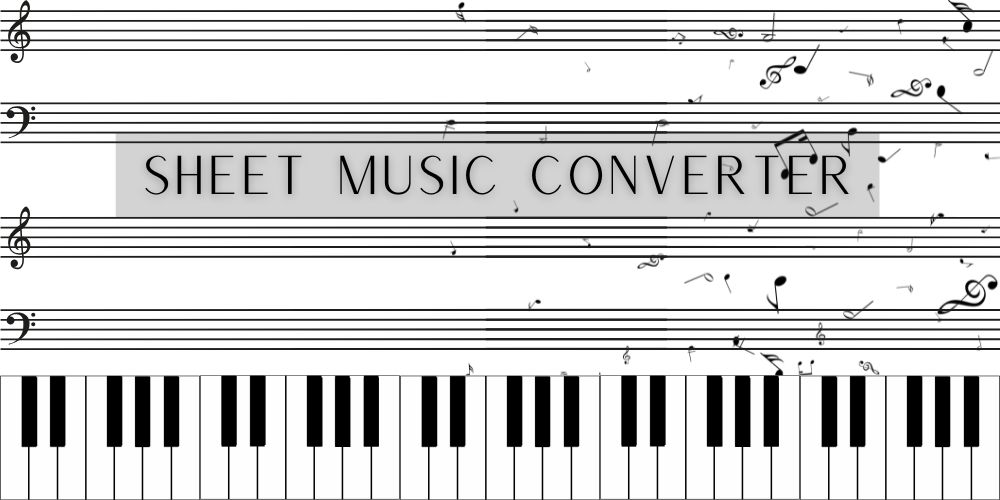
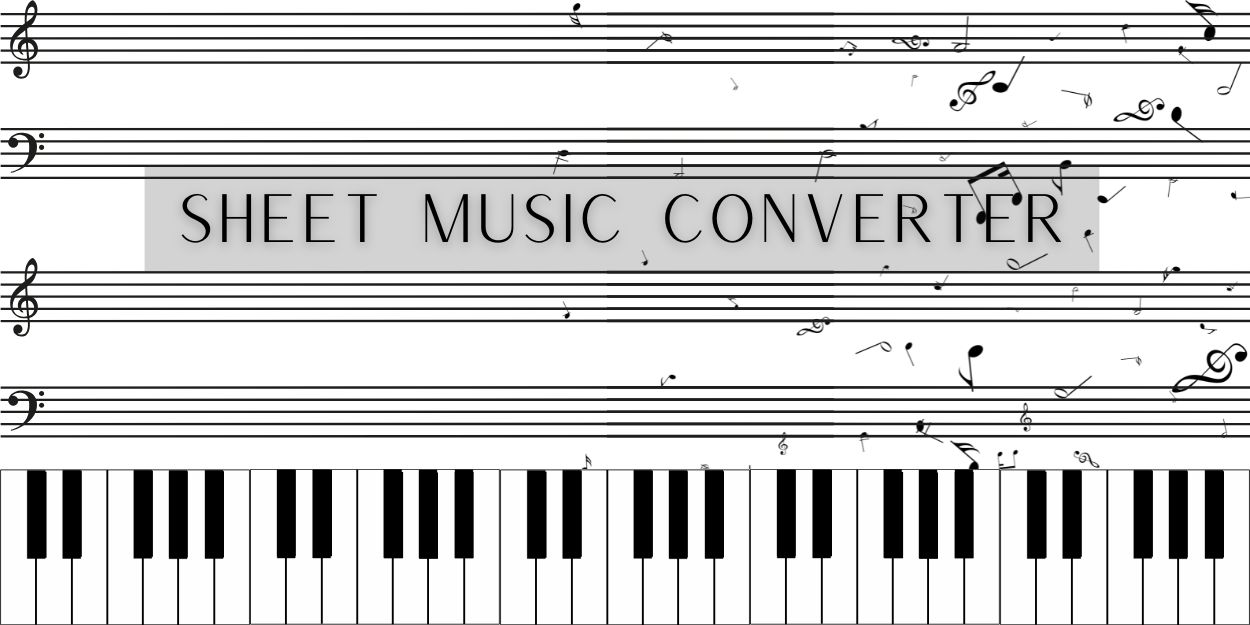
Added file reader

diff --git a/Script/PrintingPage.js b/Script/PrintingPage.js
@@ -1,0 +1,29 @@
+let button = document.getElementById("showFile");
+let title = "";
+let composer = "";
+
+button.addEventListener('click', function(){
+    console.log(sessionStorage.getItem("file"));
+    getData();
+    parser = new DOMParser();
+    xmlDoc = parser.parseFromString(sessionStorage.getItem("file"), "text/xml");
+
+    document.getElementById("output").innerHTML =
+    xmlDoc.getElementsByTagName("sign")[0].childNodes[0].nodeValue;
+})
+
+function getData() {
+    parser = new DOMParser();
+    xmlDoc = parser.parseFromString(sessionStorage.getItem("file"), "text/xml");
+    let notes = [];
+    for(let i = 0; i < 10; i++) {
+        if(xmlDoc.getElementById("credit-type")[i].childNodes[0].nodeValue === "title") {
+            title = xmlDoc.getElementById("credit-words");
+            break;
+        }
+    }
+    console.log(title);
+    document.getElementById("output").innerHTML =
+    xmlDoc.getElementsByTagName("sign")[0].childNodes[0].nodeValue;
+
+}

diff --git a/Script/OpeningPage.js b/Script/OpeningPage.js
@@ -14,19 +14,20 @@ addFileButton.addEventListener('click', function() {
   file.click();
 })
 file.addEventListener('change', (event) => {
-    const file = event.target.files[0];
+    file = event.target.files[0];
     const reader = new FileReader();
   
     reader.onload = (e) => {
       const fileContent = e.target.result;
       // Process fileContent here
+      sessionStorage.setItem("file", fileContent);
       console.log(fileContent);
     };
   
     reader.onerror = (e) => {
       console.error('Error reading file:', e);
     };
-  
+    
     reader.readAsText(file); // or readAsArrayBuffer, readAsDataURL
   });
 
@@ -36,3 +37,7 @@ function readXML(file) {
     reader.readAsDataURL(file);
     console.log(reader.readAsDataURL(file));
   }
+
+function getFile() {
+  return file;
+}

diff --git a/Pages/OpeningPage.html b/Pages/OpeningPage.html
@@ -5,6 +5,7 @@
         <meta name="viewport" content="width=device-width">
         <title>Sheet Music Converter</title>
         <script defer src="../Script/OpeningPage.js"></script>
+        
         <link href="../Style/OpeningPage.css" rel="stylesheet">
     </head>
     <body>

diff --git a/Pages/PrintingPage.html b/Pages/PrintingPage.html
@@ -10,6 +10,6 @@
     <body>
         <h1></h1>
         <button id="showFile">Show file</button>
-        <span id="output"></span>
+        <span id="output">OUTPUT</span>
     </body>
 </html>
